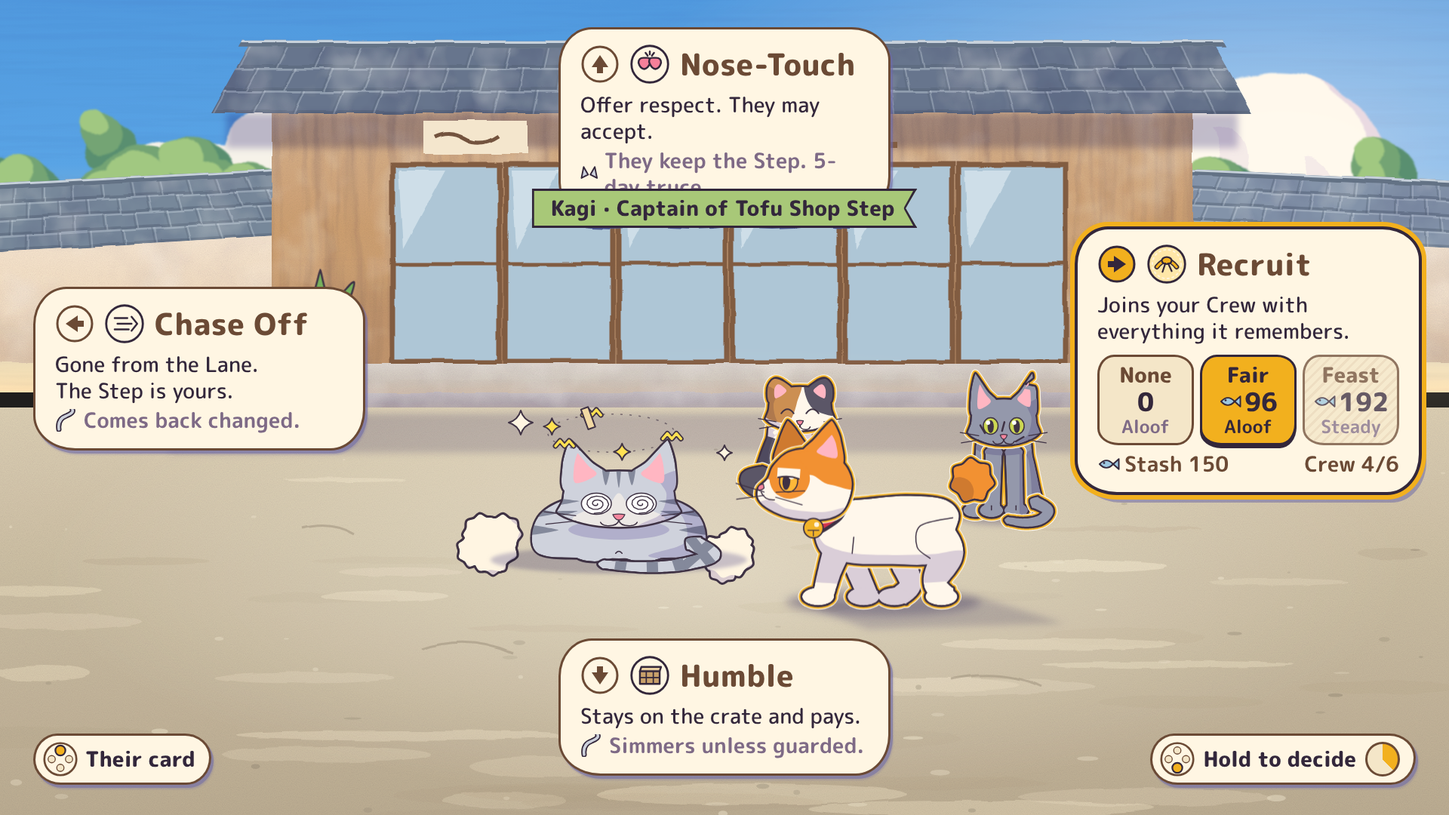
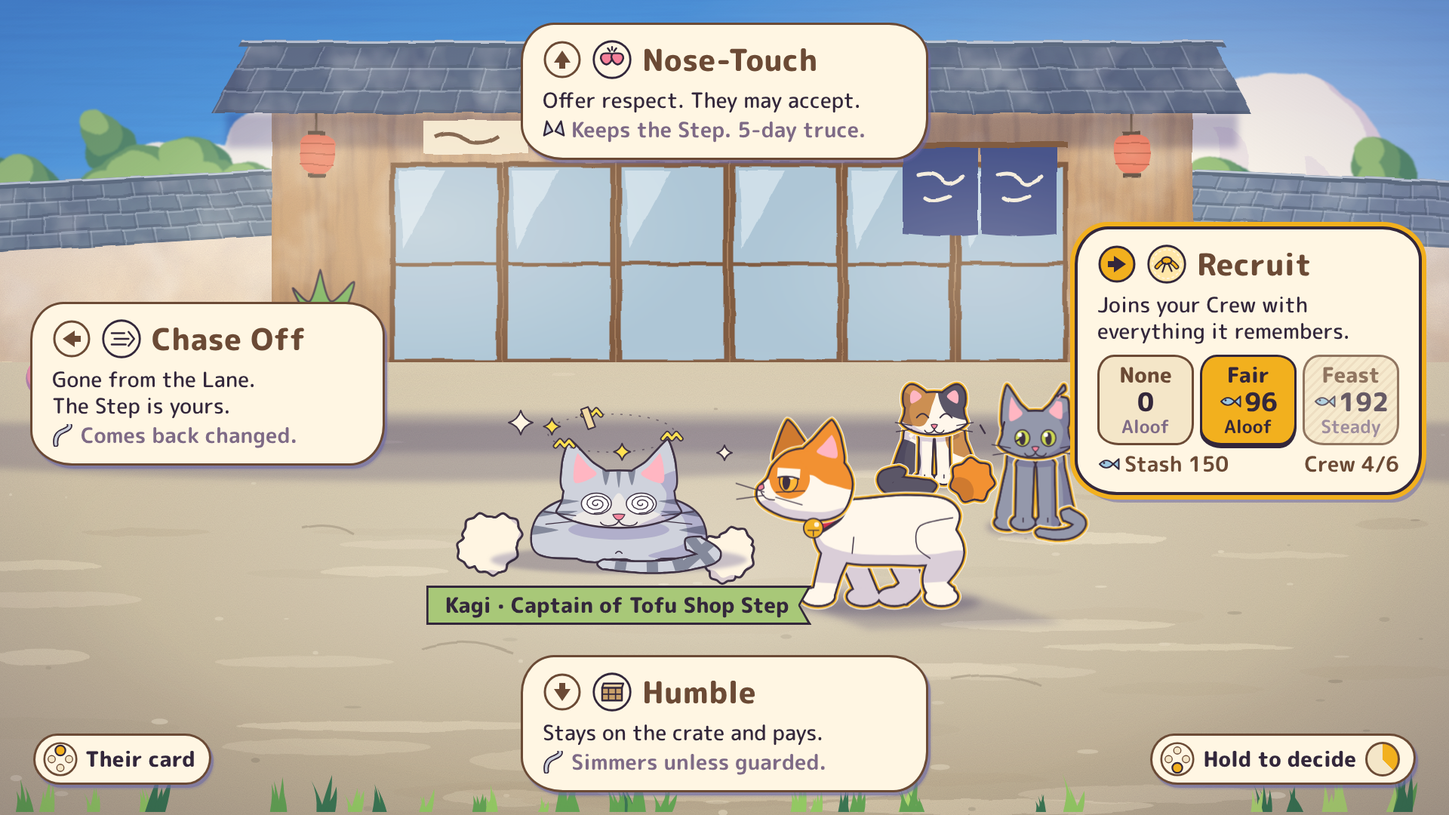
docs: nemesis preview mock frames
Claude-Session: https://claude.ai/code/session_01K9BzCtu5ca2nRxDXecreHZ

diff --git a/design/previews/10-home-evening.html b/design/previews/10-home-evening.html
@@ -1,0 +1,218 @@
+<!doctype html>
+<html lang="en">
+<head>
+<meta charset="utf-8">
+<title>Cat RPG — Frame 10: Home, Evening (mock screenshot)</title>
+<link rel="stylesheet" href="kit/kit.css">
+<style>
+  body { margin: 0; background: #111; }
+  .puff { position: absolute; }
+</style>
+</head>
+<body>
+<div class="k-stage" id="stage"></div>
+<script src="kit/kit.js"></script>
+<script>
+/* FRAME 10 — HOME, EVENING ("A Tuesday in Life 2", storyboard B shots 8–9, narrative §3.8).
+ * The Main Room at Dusk. Haru at the upright piano plays a slow bass under Mikan's footsteps while
+ * Mikan walks the treble keys. Her face stays out of frame (camera §3.9 face-out rule): she is
+ * shoulders-down, back three-quarters to us — hands, yellow socks on the pedal, the hem of her skirt.
+ * In the far doorway Gran's plum slippers have stopped under the noren, turned toward them, and stayed.
+ * Near-zero HUD: one bouncing tone puff over Mikan (hud.md §5.1). No text anywhere.
+ * Camera: piano verb follow, ~0.85 m up at the treble end, yawed toward the bass end.
+ * World: back wall is z=0, x runs along the keyboard (bass at small x), y up, metres. */
+const K = Kit, C = K.C, W = 1920, H = 1080;
+const CAM = { x: 2.3, y: 0.86, z: 2.05 }, TGT = { x: 0.15, z: 0.2 }, F = 1080, CX = 1010, HZ = 226;
+const fl = Math.hypot(TGT.x - CAM.x, TGT.z - CAM.z), fx = (TGT.x - CAM.x) / fl, fz = (TGT.z - CAM.z) / fl, rxv = -fz, rzv = fx;
+const P3 = (x, y, z) => { const dx = x - CAM.x, dz = z - CAM.z, sx = dx * rxv + dz * rzv, d = dx * fx + dz * fz; return [CX + sx * F / d, HZ - (y - CAM.y) * F / d, d]; };
+const pd = (pts) => 'M' + pts.map((p) => { const q = P3(...p); return q[0].toFixed(1) + ' ' + q[1].toFixed(1); }).join('L') + 'Z';
+const P2 = (x, y, z) => P3(x, y, z).slice(0, 2);
+const sc = (x, y, z) => F / P3(x, y, z)[2];        // px per metre at that point
+const ink = (d, fill, w) => K.inked(d, fill, w || 2.5);
+const s = [];
+
+/* =============================== the room =============================== */
+// back wall: warm plaster above a dark wood wainscot, lamplit
+s.push(`<rect width="${W}" height="${H}" fill="#3B2A2E"/>`);
+s.push(K.surface({ d: pd([[-4, 2.6, 0], [3, 2.6, 0], [3, 0.92, 0], [-4, 0.92, 0]]), box: { x: -200, y: -400, w: 2400, h: 1200 }, color: '#E9C99A', top: '#C8A27A', bottom: '#F2D3A0', grime: 0.1, tex: 'mottle', texOpacity: 0.2 }));
+s.push(K.surface({ d: pd([[-4, 0.92, 0], [3, 0.92, 0], [3, 0, 0], [-4, 0, 0]]), box: { x: -200, y: 200, w: 2400, h: 700 }, color: '#8A5A3A', top: '#9C6A44', bottom: '#6E4630', grime: 0.2, tex: 'brush-v', texOpacity: 0.35 }));
+s.push(`<path d="${pd([[-4, 0.95, 0], [3, 0.95, 0], [3, 0.9, 0], [-4, 0.9, 0]])}" fill="#5E3E2C"/>`);
+// right side wall (perpendicular, x = 2.0..) is behind the camera; left: the veranda glass doors at dusk on the back wall
+const vx0 = -3.4, vx1 = -1.55;
+s.push(`<linearGradient id="dusk" x1="0" y1="0" x2="0" y2="1"><stop offset="0" stop-color="#6E5FA0"/><stop offset="0.5" stop-color="#B07AA8"/><stop offset="0.85" stop-color="#F2A066"/><stop offset="1" stop-color="#F7B878"/></linearGradient>`);
+s.push(`<path d="${pd([[vx0, 2.2, 0], [vx1, 2.2, 0], [vx1, 0.05, 0], [vx0, 0.05, 0]])}" fill="url(#dusk)"/>`);
+// garden silhouettes and the wall, blue in the dusk; the Veranda Lamp's warm circle on the boards
+s.push(`<g>${K.foliage({ x: P2(-2.9, 0.9, 0)[0], y: P2(-2.9, 0.9, 0)[1], w: 260, h: 200, seed: 7, far: true, tones: { dark: '#3E3E6E', mid: '#55548A', light: '#7470A6' } })}</g>`);
+s.push(`<path d="${pd([[vx0, 0.55, 0], [vx1, 0.55, 0], [vx1, 0.05, 0], [vx0, 0.05, 0]])}" fill="#5E5A8E" opacity="0.85"/>`);
+s.push(K.glow(P2(-2.3, 0.2, 0)[0], P2(-2.3, 0.2, 0)[1], 120, 40, '#FFD98A', 0.9));
+s.push(`<circle cx="${P2(-2.0, 1.5, 0)[0]}" cy="${P2(-2.0, 1.5, 0)[1]}" r="9" fill="#FFE7A3"/>` + K.glow(P2(-2.0, 1.5, 0)[0], P2(-2.0, 1.5, 0)[1], 70, 70, '#FFD98A', 0.9));
+// glass door frames
+let vf = ''; for (let i = 0; i <= 3; i++) { const x = vx0 + (vx1 - vx0) * i / 3; vf += `<path d="${pd([[x - 0.03, 2.2, 0], [x + 0.03, 2.2, 0], [x + 0.03, 0.05, 0], [x - 0.03, 0.05, 0]])}" fill="#6B4430"/>`; }
+vf += `<path d="${pd([[vx0, 1.05, 0], [vx1, 1.05, 0], [vx1, 1.0, 0], [vx0, 1.0, 0]])}" fill="#6B4430"/>`;
+s.push(`<g filter="url(#k-rough)">${vf}</g>`);
+// cool dusk spill onto the floor from the glass
+s.push(`<path d="${pd([[vx0, 0, 0], [vx1, 0, 0], [vx1 + 0.4, 0, 1.6], [vx0 + 0.2, 0, 1.6]])}" fill="#8E7BC0" opacity="0.25" filter="url(#k-soft2)"/>`);
+
+// the inner doorway with its noren; Gran's plum slippers stopped beneath it, turned toward the piano
+const dx0 = -1.25, dx1 = -0.45;
+s.push(`<path d="${pd([[dx0, 1.85, 0], [dx1, 1.85, 0], [dx1, 0, 0], [dx0, 0, 0]])}" fill="#4A3434"/>`);
+s.push(K.glow(P2(-0.85, 0.5, -0.4)[0], P2(-0.85, 0.5, -0.4)[1], 90, 130, '#FFC98A', 0.45));      // the kitchen beyond, lit
+s.push(`<path d="${pd([[dx0 - 0.06, 1.9, 0], [dx1 + 0.06, 1.9, 0], [dx1 + 0.06, 1.82, 0], [dx0 - 0.06, 1.82, 0]])}" fill="#5E3E2C"/>`);
+// Gran: plum slippers, pale socks, the plum cross-hatched apron edge just below the noren
+const g = (x, y) => P2(x, y, -0.05);
+const gs = sc(-0.85, 0, -0.05);
+const granLegs = (x) => { const a = g(x - 0.045, 0.62), b = g(x + 0.045, 0.62), c = g(x + 0.04, 0.06), d = g(x - 0.04, 0.06); return `M${a[0]} ${a[1]}L${b[0]} ${b[1]}L${c[0]} ${c[1]}L${d[0]} ${d[1]}Z`; };
+s.push(ink(granLegs(-0.95), '#C9B8A6', 2) + ink(granLegs(-0.74), '#BFAE9C', 2));
+const slipper = (x, rot) => { const p = g(x, 0.03); return `<g transform="translate(${p[0]} ${p[1]}) rotate(${rot}) scale(${gs / 260})">${ink('M-30 0Q-34 -16 -14 -18H24Q44 -16 46 0Q8 6 -30 0Z', '#8E4A7B', 2.4)}${K.inkLine('M-12 -16Q8 -30 28 -16', 2)}</g>`; };
+s.push(slipper(-0.96, 8) + slipper(-0.72, 14));
+{ const a = g(-1.08, 0.98), b = g(-0.6, 0.98), c = g(-0.6, 0.6), d = g(-1.1, 0.6);
+  s.push(K.celGroup({ parts: [{ d: `M${a[0]} ${a[1]}L${b[0]} ${b[1]}L${c[0] + 6} ${c[1]}Q${(c[0] + d[0]) / 2} ${c[1] + 8} ${d[0] - 6} ${d[1]}Z`, fill: '#8E4A7B' }], overlays: [{ d: `M${d[0] - 10} ${d[1] - 14}L${c[0] + 10} ${c[1] - 14}L${c[0] + 10} ${c[1] + 10}L${d[0] - 10} ${d[1] + 10}Z`, fill: '#A65E92' }], shade: `M${(a[0] + b[0]) / 2 + 10} ${a[1]}H${b[0] + 20}V${c[1] + 20}H${(a[0] + b[0]) / 2 + 10}Z` }, { lw: 2.2, ol: K.OUTLINES.ink }));
+  let hatch = ''; for (let i = 0; i < 6; i++) { const t = i / 5, x = d[0] + (c[0] - d[0]) * t; hatch += `M${x} ${d[1] - 12}l6 10M${x + 6} ${d[1] - 12}l-6 10`; }
+  s.push(`<path d="${hatch}" stroke="#6E3560" stroke-width="1.4" opacity="0.6"/>`); }
+// the noren: two indigo panels hanging to just above the knee, a plain pale band (no writing)
+{ const n0 = g(dx0 - 0.02, 1.84), n1 = g(dx1 + 0.02, 1.84), n2 = g(dx1 + 0.02, 0.95), n3 = g(dx0 - 0.02, 0.98), m0 = g((dx0 + dx1) / 2, 1.84), m1 = g((dx0 + dx1) / 2, 0.96);
+  s.push(`<g filter="url(#k-rough)"><path d="M${n0[0]} ${n0[1]}L${m0[0] - 2} ${m0[1]}L${m1[0] - 4} ${m1[1]}Q${(m1[0] + n3[0]) / 2} ${m1[1] + 6} ${n3[0]} ${n3[1]}Z" fill="#3E5384"/><path d="M${m0[0] + 2} ${m0[1]}L${n1[0]} ${n1[1]}L${n2[0]} ${n2[1]}Q${(m1[0] + n2[0]) / 2} ${n2[1] + 8} ${m1[0] + 4} ${m1[1]}Z" fill="#364A78"/>`
+    + `<path d="M${n0[0]} ${n0[1] + 40}L${n1[0]} ${n1[1] + 40}L${n1[0]} ${n1[1] + 56}L${n0[0]} ${n0[1] + 56}Z" fill="#E9DFC8" opacity="0.85"/></g>`); }
+
+// a framed picture on the wall above (C13: pictures allowed, no captions): a kitten drawing, crayon
+{ const a = P2(-0.2, 1.95, 0), b = P2(0.0, 1.95, 0), c = P2(0.0, 1.62, 0);
+  s.push(`<g filter="url(#k-rough)"><rect x="${a[0] - 120}" y="${a[1]}" width="${(b[0] - a[0]) + 130}" height="${c[1] - a[1]}" fill="#6B4430"/><rect x="${a[0] - 110}" y="${a[1] + 9}" width="${(b[0] - a[0]) + 110}" height="${c[1] - a[1] - 18}" fill="#FFF8E8"/></g>`);
+  const ux = a[0] - 50, uy = (a[1] + c[1]) / 2 + 6;
+  s.push(`<g opacity="0.85"><ellipse cx="${ux}" cy="${uy}" rx="34" ry="24" fill="none" stroke="#F2A040" stroke-width="5"/><path d="M${ux - 28} ${uy - 14}l6 -22l14 14M${ux + 28} ${uy - 14}l-6 -22l-14 14" fill="none" stroke="#F2A040" stroke-width="5" stroke-linejoin="round"/><circle cx="${ux - 10}" cy="${uy - 2}" r="3" fill="#33273B"/><circle cx="${ux + 10}" cy="${uy - 2}" r="3" fill="#33273B"/><path d="M${ux + 34} ${uy + 6}q22 -2 24 -22" fill="none" stroke="#F2A040" stroke-width="5"/></g>`); }
+
+/* floor: warm boards running toward us, lamplit */
+s.push(`<path d="${pd([[-4, 0, 0], [3.2, 0, 0], [3.2, 0, 3], [-4, 0, 3]])}" fill="#A86E44"/>`);
+let boards = ''; for (let i = -26; i <= 22; i++) { const x = i * 0.16, a = P2(x, 0, 0), b = P2(x, 0, 2.4); boards += `<path d="M${a[0].toFixed(1)} ${a[1].toFixed(1)}L${b[0].toFixed(1)} ${b[1].toFixed(1)}" stroke="#6E4630" stroke-width="2.4" opacity="0.6"/><path d="M${(a[0] + 3).toFixed(1)} ${a[1].toFixed(1)}L${(b[0] + 3).toFixed(1)} ${b[1].toFixed(1)}" stroke="#E2A874" stroke-width="2" opacity="0.4"/>`; }
+for (let k = 0; k < 18; k++) { const R = K.rng(k + 3); const x = -3 + R() * 5.4, z = 0.2 + R() * 2; const a = P2(x, 0, z), b = P2(x + 0.16, 0, z); boards += `<path d="M${a[0].toFixed(1)} ${a[1].toFixed(1)}L${b[0].toFixed(1)} ${b[1].toFixed(1)}" stroke="#6E4630" stroke-width="2" opacity="0.5"/>`; }
+s.push(`<g filter="url(#k-rough)">${boards}</g>`);
+s.push(K.texture(0, 560, W, 520, 'brush', 0.25) + K.texture(0, 560, W, 520, 'grain', 0.2));
+// skirting where floor meets wall
+s.push(`<path d="${pd([[-4, 0.07, 0.005], [3.2, 0.07, 0.005], [3.2, 0, 0.005], [-4, 0, 0.005]])}" fill="#5E3E2C"/>`);
+
+/* =============================== the upright piano =============================== */
+const PX0 = 0, PX1 = 1.5;
+const BODY = '#6A3A2C', BODYD = '#4E2A22', BODYL = '#8A5040';
+// side panel (treble end faces the camera), upper body front, top
+s.push(`<path d="${pd([[PX0, 1.26, 0.32], [PX1, 1.26, 0.32], [PX1, 0.74, 0.32], [PX0, 0.74, 0.32]])}" fill="${BODY}"/>`);
+s.push(`<path d="${pd([[PX0, 1.28, 0.0], [PX1, 1.28, 0.0], [PX1, 1.28, 0.34], [PX0, 1.28, 0.34]])}" fill="${BODYL}"/>`);
+// lamp sheen on the polished front
+s.push(`<path d="${pd([[0.2, 1.22, 0.33], [0.62, 1.22, 0.33], [0.5, 0.8, 0.33], [0.1, 0.8, 0.33]])}" fill="#FFD9A0" opacity="0.18" filter="url(#k-soft)"/>`);
+// lower front panel and the pedals
+s.push(`<path d="${pd([[PX0 + 0.08, 0.62, 0.4], [PX1 - 0.08, 0.62, 0.4], [PX1 - 0.08, 0.05, 0.4], [PX0 + 0.08, 0.05, 0.4]])}" fill="${BODYD}"/>`);
+s.push(`<path d="${pd([[0.3, 0.5, 0.405], [1.2, 0.5, 0.405], [1.2, 0.16, 0.405], [0.3, 0.16, 0.405]])}" fill="none" stroke="#7A4A38" stroke-width="3"/>`);
+// music stand + sheet music (Scribble, a pencil circle on one bar)
+const ms = [[0.38, 1.12, 0.36], [1.02, 1.12, 0.36], [1.02, 0.84, 0.42], [0.38, 0.84, 0.42]];
+s.push(ink(pd(ms), '#FFF8EA', 2.2) + ink(pd([[0.52, 1.1, 0.365], [0.92, 1.1, 0.365], [0.92, 0.86, 0.415], [0.52, 0.86, 0.415]]).replace(/Z$/, 'Z'), '#F6EEDC', 1.6));
+{ let sm = ''; for (let r = 0; r < 4; r++) { const y = 1.07 - r * 0.06, zz = 0.365 + r * 0.014; for (let l = 0; l < 5; l++) { const a = P2(0.41, y - l * 0.008, zz), b = P2(0.99, y - l * 0.008, zz); sm += `<path d="M${a[0].toFixed(1)} ${a[1].toFixed(1)}L${b[0].toFixed(1)} ${b[1].toFixed(1)}" stroke="#8A7C8E" stroke-width="1" opacity="0.7"/>`; } for (let n = 0; n < 9; n++) { const p = P2(0.44 + n * 0.06 + (r % 2) * 0.02, y - 0.012 - ((n * 7 + r * 3) % 5) * 0.006, zz); sm += `<ellipse cx="${p[0].toFixed(1)}" cy="${p[1].toFixed(1)}" rx="3.2" ry="2.4" fill="#5E5468"/><path d="M${(p[0] + 3).toFixed(1)} ${p[1].toFixed(1)}v-11" stroke="#5E5468" stroke-width="1.2"/>`; } }
+  const pc = P2(0.8, 1.0, 0.38); sm += `<ellipse cx="${pc[0]}" cy="${pc[1]}" rx="26" ry="12" fill="none" stroke="#7A7090" stroke-width="2" transform="rotate(-6 ${pc[0]} ${pc[1]})"/>`;
+  s.push(sm); }
+// fallboard (open) — inked
+s.push(ink(pd([[0.1, 0.83, 0.43], [1.4, 0.83, 0.43], [1.4, 0.745, 0.45], [0.1, 0.745, 0.45]]), '#5A3026', 2.2));
+s.push(`<path d="${pd([[0.12, 0.82, 0.431], [1.38, 0.82, 0.431], [1.38, 0.81, 0.433], [0.12, 0.81, 0.433]])}" fill="#C27A5A" opacity="0.6"/>`);
+// key slip under the keys, cheek blocks, the side panel last (it is nearest)
+s.push(ink(pd([[0.06, 0.71, 0.64], [1.44, 0.71, 0.64], [1.44, 0.63, 0.64], [0.06, 0.63, 0.64]]), BODY, 2.2));
+// keys: white key tops + fronts, black keys — inked (Mikan can act on them)
+const KX0 = 0.12, KX1 = 1.38, NW = 36, kw = (KX1 - KX0) / NW, KY = 0.72;
+let keys = ink(pd([[KX0, KY, 0.47], [KX1, KY, 0.47], [KX1, KY, 0.635], [KX0, KY, 0.635]]), '#FFFCF4', 2.2);
+keys += ink(pd([[KX0, KY, 0.635], [KX1, KY, 0.635], [KX1, KY - 0.018, 0.635], [KX0, KY - 0.018, 0.635]]), '#E4DCEC', 2);
+for (let i = 1; i < NW; i++) { const x = KX0 + i * kw, a = P2(x, KY, 0.47), b = P2(x, KY, 0.635), c = P2(x, KY - 0.018, 0.635); keys += `<path d="M${a[0].toFixed(1)} ${a[1].toFixed(1)}L${b[0].toFixed(1)} ${b[1].toFixed(1)}L${c[0].toFixed(1)} ${c[1].toFixed(1)}" stroke="${C.ink}" stroke-width="1.25" fill="none"/>`; }
+const BK = [1, 1, 0, 1, 1, 1, 0];
+for (let i = 0; i < NW - 1; i++) { if (!BK[i % 7]) continue; const x = KX0 + (i + 1) * kw; keys += ink(pd([[x - kw * 0.3, KY + 0.012, 0.47], [x + kw * 0.3, KY + 0.012, 0.47], [x + kw * 0.3, KY + 0.012, 0.56], [x - kw * 0.3, KY + 0.012, 0.56]]), '#2E2430', 1.5) + `<path d="${pd([[x - kw * 0.3, KY + 0.012, 0.56], [x + kw * 0.3, KY + 0.012, 0.56], [x + kw * 0.3, KY, 0.565], [x - kw * 0.3, KY, 0.565]])}" fill="#1E1820"/>`; }
+s.push(keys);
+// cheek blocks
+s.push(ink(pd([[1.38, 0.79, 0.44], [1.5, 0.79, 0.44], [1.5, 0.79, 0.65], [1.38, 0.79, 0.65]]), BODYL, 2.2) + ink(pd([[1.38, 0.79, 0.65], [1.5, 0.79, 0.65], [1.5, 0.63, 0.65], [1.38, 0.63, 0.65]]), BODY, 2.2));
+s.push(ink(pd([[0.0, 0.79, 0.44], [0.12, 0.79, 0.44], [0.12, 0.79, 0.65], [0.0, 0.79, 0.65]]), BODYL, 2.2));
+// the nearest side panel of the piano (painted, polished, a warm lamp reflection running down it)
+s.push(K.surface({ d: pd([[PX1, 1.28, 0.0], [PX1, 1.28, 0.34], [PX1, 0.79, 0.34], [PX1, 0.79, 0.65], [PX1, 0.0, 0.65], [PX1, 0.0, 0.0]]), box: { x: 1100, y: -100, w: 600, h: 900 }, color: '#6E3C2E', top: '#7E4636', bottom: '#4E2A22', grime: 0, tex: 'brush-v', texOpacity: 0.3, wobble: true }));
+s.push(`<path d="${pd([[PX1 + 0.001, 1.2, 0.08], [PX1 + 0.001, 1.2, 0.14], [PX1 + 0.001, 0.1, 0.5], [PX1 + 0.001, 0.1, 0.42]])}" fill="#FFCFA0" opacity="0.22" filter="url(#k-soft)"/>`);
+// toe block + caster under the treble end
+s.push(`<path d="${pd([[PX1 - 0.12, 0.08, 0.64], [PX1, 0.08, 0.64], [PX1, 0, 0.64], [PX1 - 0.12, 0, 0.64]])}" fill="${BODYD}"/>`);
+s.push(K.castShadow(pd([[-0.1, 0, 0], [PX1 + 0.1, 0, 0], [PX1 + 0.25, 0, 0.75], [-0.1, 0, 0.75]]), 0.45, 'soft2'));
+// pedals (brass)
+[0.62, 0.75, 0.88].forEach((x) => { s.push(ink(pd([[x - 0.025, 0.07, 0.4], [x + 0.025, 0.07, 0.4], [x + 0.02, 0.06, 0.55], [x - 0.02, 0.06, 0.55]]), '#D9A84A', 1.8)); });
+
+/* =============================== Haru (shoulders down, back three-quarters) =============================== */
+const HP = { skin: '#F6D2B0', skinS: '#E2B092', card: C.haru, cardS: '#E9B428', skirt: '#8FA7C9', skirtS: '#7186AE', sock: C.haru, hair: '#3A2C34' };
+const tube3 = (pts, wm) => K.tube(pts.map((p) => P2(...p)), pts.map((p, i) => wm[i] * sc(...p)), { capRound: 0.4 });
+const G = { lw: 2.5, ol: K.OUTLINES.ink };
+// piano bench (painted wood, its top inked edge since a cat hops onto it)
+const BZ0 = 0.86, BZ1 = 1.22, BX0 = 0.18, BX1 = 1.0, BY = 0.48;
+s.push(K.castShadow(pd([[BX0 - 0.05, 0, BZ0 - 0.05], [BX1 + 0.1, 0, BZ0 - 0.05], [BX1 + 0.18, 0, BZ1 + 0.1], [BX0, 0, BZ1 + 0.1]]), 0.45, 'soft2'));
+[[BX0 + 0.04, BZ0 + 0.04], [BX1 - 0.04, BZ0 + 0.04], [BX1 - 0.04, BZ1 - 0.04], [BX0 + 0.04, BZ1 - 0.04]].forEach(([x, z]) => { s.push(ink(pd([[x - 0.02, BY - 0.04, z], [x + 0.02, BY - 0.04, z], [x + 0.02, 0, z], [x - 0.02, 0, z]]), '#5A3026', 2)); });
+// far (left) leg + arm first
+s.push(K.celGroup({ parts: [{ d: tube3([[0.48, 0.5, 0.96], [0.48, 0.47, 0.66], [0.5, 0.09, 0.6]], [0.11, 0.09, 0.07]), fill: HP.skin }], shadeAll: true }, G));
+s.push(K.celGroup({ parts: [{ d: tube3([[0.5, 0.15, 0.6], [0.5, 0.05, 0.6]], [0.075, 0.07]), fill: HP.sock }, { d: tube3([[0.5, 0.04, 0.62], [0.5, 0.03, 0.5]], [0.07, 0.06]), fill: HP.sock }], shadeAll: true }, G));
+// bench top
+s.push(ink(pd([[BX0, BY, BZ0], [BX1, BY, BZ0], [BX1, BY, BZ1], [BX0, BY, BZ1]]), '#7A4A34', 2.2) + ink(pd([[BX0, BY, BZ1], [BX1, BY, BZ1], [BX1, BY - 0.05, BZ1], [BX0, BY - 0.05, BZ1]]), '#5A3026', 2) + ink(pd([[BX1, BY, BZ0], [BX1, BY, BZ1], [BX1, BY - 0.05, BZ1], [BX1, BY - 0.05, BZ0]]), '#6A3A2C', 2));
+// near (right) leg: thigh under the skirt, shin, yellow sock, foot on the sustain pedal
+s.push(K.celGroup({ parts: [{ d: tube3([[0.76, 0.5, 0.98], [0.82, 0.48, 0.68], [0.86, 0.11, 0.6]], [0.115, 0.095, 0.072]), fill: HP.skin }], shade: tube3([[0.72, 0.5, 0.98], [0.78, 0.48, 0.68], [0.82, 0.11, 0.6]], [0.05, 0.04, 0.03]), lines: [] }, G));
+s.push(K.celGroup({ parts: [{ d: tube3([[0.86, 0.18, 0.6], [0.87, 0.07, 0.59]], [0.08, 0.074]), fill: HP.sock }, { d: tube3([[0.87, 0.06, 0.6], [0.88, 0.08, 0.47]], [0.074, 0.062]), fill: HP.sock }], shade: tube3([[0.84, 0.18, 0.62], [0.85, 0.06, 0.61]], [0.03, 0.03]) }, G));
+// skirt draped over the bench and the thighs
+{ const pts = [[0.36, 0.66, 1.06], [0.86, 0.66, 1.04], [0.94, 0.5, 0.96], [0.92, 0.44, 0.74], [0.84, 0.4, 0.66], [0.72, 0.42, 0.7], [0.56, 0.4, 0.66], [0.42, 0.42, 0.72], [0.34, 0.46, 0.98]].map((p) => P2(...p));
+  s.push(K.celGroup({ parts: [{ d: K.blob(pts, true, 0.4), fill: HP.skirt }], shade: K.blob([[0.34, 0.66, 1.06], [0.6, 0.66, 1.06], [0.6, 0.44, 0.9], [0.4, 0.42, 0.72], [0.32, 0.46, 0.98]].map((p) => P2(...p)), true, 0.4), lines: [K.blob([[0.7, 0.62, 1.04], [0.8, 0.5, 0.86], [0.78, 0.43, 0.7]].map((p) => P2(...p)), false), K.blob([[0.86, 0.6, 1.02], [0.92, 0.47, 0.82]].map((p) => P2(...p)), false)] }, G)); }
+// torso in the yellow cardigan, leaning in to the keys; shoulders crop out at the top of frame
+{ const pts = [[0.34, 0.6, 1.08], [0.9, 0.6, 1.06], [0.94, 0.86, 1.0], [0.92, 1.22, 0.94], [0.3, 1.24, 0.98], [0.3, 0.86, 1.04]].map((p) => P2(...p));
+  s.push(K.celGroup({ parts: [{ d: K.blob(pts, true, 0.35), fill: HP.card }], shade: K.blob([[0.3, 0.6, 1.08], [0.52, 0.6, 1.08], [0.5, 1.24, 0.98], [0.28, 1.24, 0.98]].map((p) => P2(...p)), true, 0.3),
+    lines: [K.blob([[0.62, 1.2, 0.98], [0.64, 0.9, 1.02], [0.62, 0.66, 1.06]].map((p) => P2(...p)), false)] }, G));
+  // ribbed hem band
+  const hb = [[0.34, 0.66, 1.08], [0.9, 0.66, 1.06], [0.9, 0.6, 1.06], [0.34, 0.6, 1.08]];
+  s.push(K.celGroup({ parts: [{ d: pd(hb), fill: HP.cardS }] }, G)); }
+// the dark ends of her bob, just in at the top edge (the face stays out of frame)
+s.push(K.celGroup({ parts: [{ d: K.blob([[0.44, 1.5, 0.98], [0.86, 1.5, 0.96], [0.86, 1.3, 0.95], [0.78, 1.24, 0.96], [0.6, 1.27, 0.97], [0.46, 1.25, 0.98]].map((p) => P2(...p)), true, 0.5), fill: HP.hair }], lines: [K.blob([[0.7, 1.4, 0.96], [0.72, 1.28, 0.96]].map((p) => P2(...p)), false)] }, { lw: 2.5, ol: K.OUTLINES.ink }));
+// near (right) arm: cardigan sleeve to a yellow cuff, forearm, the hand soft on the keys
+s.push(K.celGroup({ parts: [{ d: tube3([[0.9, 1.12, 0.96], [0.98, 0.9, 0.84], [0.94, 0.8, 0.7]], [0.12, 0.1, 0.09]), fill: HP.card }], shade: tube3([[0.88, 1.1, 0.98], [0.95, 0.88, 0.86]], [0.05, 0.04]) }, G));
+s.push(K.celGroup({ parts: [{ d: tube3([[0.95, 0.8, 0.72], [0.93, 0.77, 0.66]], [0.095, 0.09]), fill: HP.cardS }] }, G));
+{ // hand: fingers curved down onto the keys (around the D above middle C)
+  const hand = [[0.88, 0.79, 0.66], [0.99, 0.79, 0.665], [1.0, 0.765, 0.6], [0.99, 0.735, 0.55], [0.95, 0.73, 0.545], [0.9, 0.735, 0.55], [0.87, 0.76, 0.6]].map((p) => P2(...p));
+  s.push(K.celGroup({ parts: [{ d: K.blob(hand, true, 0.45), fill: HP.skin }], shade: K.blob([[0.86, 0.79, 0.66], [0.9, 0.79, 0.66], [0.9, 0.735, 0.55], [0.86, 0.75, 0.58]].map((p) => P2(...p)), true, 0.4),
+    lines: [0.905, 0.93, 0.955, 0.98].map((x) => K.blob([[x, 0.77, 0.6], [x + 0.002, 0.74, 0.555]].map((p) => P2(...p)), false)) }, G)); }
+
+/* =============================== Mikan on the treble keys =============================== */
+const mkp = P2(1.22, KY + 0.004, 0.56), mks = sc(1.22, KY, 0.56) / 520;
+s.push(K.cat({ ...K.CAST.mikan, pose: 'side-walk', x: mkp[0], y: mkp[1], scale: mks, flip: true, shadow: true }));
+// a key dips under the forepaw
+s.push(`<path d="${pd([[1.13, KY - 0.004, 0.5], [1.165, KY - 0.004, 0.5], [1.165, KY - 0.004, 0.635], [1.13, KY - 0.004, 0.635]])}" fill="${C.wisteria}" opacity="0.25"/>`);
+
+/* =============================== the music: soft coloured shapes =============================== */
+// Haru's bass: big, slow, round Haru-yellow shapes rising from her hand; Mikan's steps: small pale bell-cream drops.
+// They are painted light, not inked VFX (the house has no VFX: art bible §6.3); they braid together over the keys.
+const note = (x, y, r, col, op, stem) => `<g opacity="${op}"><ellipse cx="${x}" cy="${y}" rx="${r}" ry="${r * 0.82}" fill="${col}" transform="rotate(-18 ${x} ${y})"/>${stem ? `<path d="M${x + r * 0.8} ${y - 2}q${r * 0.3} ${-r * 1.6} ${r * 1.4} ${-r * 2.2}" stroke="${col}" stroke-width="${r * 0.32}" fill="none" stroke-linecap="round"/>` : ''}<ellipse cx="${x - r * 0.3}" cy="${y - r * 0.3}" rx="${r * 0.32}" ry="${r * 0.22}" fill="#FFFFFF" opacity="0.55" transform="rotate(-18 ${x} ${y})"/></g>`;
+let notes = '';
+const hh = P2(0.94, 0.86, 0.6);
+const haruPath = [[hh[0] - 10, hh[1] - 30], [hh[0] - 60, hh[1] - 120], [hh[0] + 10, hh[1] - 220], [hh[0] + 130, hh[1] - 280], [hh[0] + 260, hh[1] - 300]];
+[[0, 26, 0.95, true], [1, 34, 0.9, false], [2, 30, 0.8, true], [3, 38, 0.65, false], [4, 28, 0.45, true]].forEach(([i, r, op, st]) => { const [x, y] = haruPath[i]; notes += K.glow(x, y, r * 2.2, r * 2, '#FFE7A3', 0.35) + note(x, y, r, C.haru, op, st); });
+const mikPath = [[mkp[0] - 70, mkp[1] - 70], [mkp[0] - 20, mkp[1] - 160], [mkp[0] - 110, mkp[1] - 230], [mkp[0] - 60, mkp[1] - 320], [mkp[0] - 190, mkp[1] - 360]];
+[[0, 14, 0.95], [1, 12, 0.85], [2, 16, 0.8], [3, 11, 0.65], [4, 13, 0.5]].forEach(([i, r, op]) => { const [x, y] = mikPath[i]; notes += K.glow(x, y, r * 2.4, r * 2.2, '#FFF1D6', 0.4) + note(x, y, r, '#FFE2BC', op, i % 2 === 0); });
+// where the two lines meet, a soft warm bloom (the duet)
+notes += K.glow((haruPath[4][0] + mikPath[4][0]) / 2, (haruPath[4][1] + mikPath[4][1]) / 2 - 10, 220, 140, '#FFE7B8', 0.45);
+notes += note((haruPath[4][0] + mikPath[4][0]) / 2 - 20, (haruPath[4][1] + mikPath[4][1]) / 2 - 10, 18, C.haru, 0.6, true) + note((haruPath[4][0] + mikPath[4][0]) / 2 + 26, (haruPath[4][1] + mikPath[4][1]) / 2 - 30, 11, '#FFE2BC', 0.6, true);
+s.push(`<g filter="url(#k-soft)" opacity="0.6">${notes}</g><g>${notes}</g>`);
+
+/* =============================== foreground witnesses =============================== */
+// Haru's school bag slumped against the bench leg, the ginger-cat charm on its zip (today's find)
+{ const b0 = P2(1.12, 0, 1.32), bs = sc(1.12, 0, 1.32) / 300;
+  s.push(K.shadow({ x: b0[0] + 10, y: b0[1], rx: 90 * bs * 1.6, ry: 14 }));
+  s.push(`<g transform="translate(${b0[0]} ${b0[1]}) scale(${bs})">${K.celGroup({ parts: [{ d: K.blob([[-62, 0], [-70, -60], [-60, -110], [56, -118], [66, -64], [60, 0]], true, 0.4), fill: '#3A486E' }, { d: K.blob([[-52, -74], [52, -80], [56, -40], [-56, -36]], true, 0.3), fill: '#46567E' }], shade: 'M20 -140H90V10H20Z', lines: ['M-60 -96Q0 -104 58 -102'] }, G)}${K.inkLine('M-34 -112Q-20 -170 20 -170Q48 -166 40 -116', 6)}${K.inkLine('M-34 -112Q-20 -170 20 -170Q48 -166 40 -116', 3, '#2A3658')}`
+    + `<g transform="translate(40 -96)">${K.inkLine('M0 0V22', 1.6)}${K.celGroup({ parts: [{ d: K.blob([[-12, 32], [-13, 22], [-10, 16], [-12, 6, 1], [-4, 13], [4, 13], [12, 6, 1], [10, 16], [13, 22], [12, 32], [0, 36]], true, 0.5), fill: C.ginger }], overlays: [{ d: 'M-14 26Q0 30 14 26V40H-14Z', fill: '#FFF8EC' }] }, { lw: 1.8, ol: K.OUTLINES.ink })}<circle cx="-4" cy="24" r="1.4" fill="${C.ink}"/><circle cx="4" cy="24" r="1.4" fill="${C.ink}"/></g></g>`); }
+// the chipped blue-and-white Bowl on its mat, near the camera, softly out of focus
+{ const bw = P2(1.85, 0, 1.15), bsc = sc(1.85, 0, 1.15) / 260;
+  s.push(`<g transform="translate(${bw[0]} ${bw[1]}) scale(${bsc})">${`<ellipse cx="0" cy="2" rx="110" ry="26" fill="#C9A06A"/><ellipse cx="0" cy="0" rx="104" ry="23" fill="#E2BC84"/>`}${K.celGroup({ parts: [{ d: 'M-70 -44Q-66 -4 -40 4H40Q66 -4 70 -44Z', fill: '#F7F4FA' }, { d: K.ell ? K.ell(0, -44, 70, 16) : 'M-70 -44A70 16 0 1 0 70 -44A70 16 0 1 0 -70 -44Z', fill: '#3E62A8' }], overlays: [{ d: 'M-70 -30H70V-22H-70Z', fill: '#3E62A8' }], shade: 'M30 -70H90V10H30Z', lines: ['M-58 -10Q0 -2 58 -10'] }, G)}<path d="M-46 -54l8 -4l4 7l-8 3z" fill="#F7F4FA" stroke="${C.ink}" stroke-width="2"/></g>`); }
+
+/* =============================== light =============================== */
+// the pendant lamp above (out of frame): a warm pool around the bench and the keys
+s.push(K.glow(P2(0.9, 0, 0.9)[0], P2(0.9, 0, 0.9)[1], 640, 220, '#FFC98A', 0.5));
+s.push(K.glow(P2(0.9, 0.9, 0.6)[0], P2(0.9, 0.9, 0.6)[1] - 120, 760, 480, '#FFD9A0', 0.32));
+// dusk-violet in the corners, never black (warm memory, soft contrast)
+s.push(`<radialGradient id="vig" cx="0.55" cy="0.45" r="0.75"><stop offset="0.55" stop-color="#7A4E8C" stop-opacity="0"/><stop offset="1" stop-color="#7A4E8C" stop-opacity="0.5"/></radialGradient><rect width="${W}" height="${H}" fill="url(#vig)" style="mix-blend-mode:multiply"/>`);
+s.push(K.texture(0, 0, W, H, 'grain', 0.1));
+
+/* =============================== HUD: one tone puff over Mikan, nothing else =============================== */
+// Bouncing tone puff (= a bright, excited voice, felt by the cat; never a word)
+const puff = `<svg width="110" height="96" viewBox="-55 -52 110 96" overflow="visible"><path d="${K.blob(K.pomPts(0, -4, 36, 9, 0.12))}" fill="${C.wisteria}" opacity="0.5" transform="translate(3 4)"/><path d="${K.blob(K.pomPts(0, -4, 36, 9, 0.12))}" fill="${C.cream}" stroke="${C.cocoa}" stroke-width="3.5"/>`
+  + `<g fill="none" stroke="${C.ink}" stroke-width="3.4" stroke-linecap="round"><path d="M-22 6q6 -16 12 0q6 -22 12 0q6 -28 12 0"/></g><circle cx="-24" cy="-22" r="4" fill="${C.gold}" stroke="${C.ink}" stroke-width="2"/><circle cx="22" cy="-26" r="3" fill="${C.gold}" stroke="${C.ink}" stroke-width="2"/></svg>`;
+
+document.getElementById('stage').innerHTML = K.svg(W, H, s.join(''), 'class="k-world"')
+  + `<div class="puff" style="left:${mkp[0] - 40}px;top:${mkp[1] - mks * 140 - 110}px">${puff}</div>`;
+</script>
+</body>
+</html>

diff --git a/design/previews/07-verdict.html b/design/previews/07-verdict.html
@@ -6,7 +6,7 @@
 <link rel="stylesheet" href="kit/kit.css">
 <style>
   body { margin: 0; background: #111; }
-  .vc { position: absolute; width: 440px; box-sizing: border-box; padding: 18px 26px 20px; }
+  .vc { position: absolute; width: 470px; box-sizing: border-box; padding: 18px 26px 20px; }
   .vc .hd { display: flex; align-items: center; gap: 12px; margin-bottom: 8px; }
   .vc .hd .t { font: 800 40px/1 var(--font); color: var(--cocoa); letter-spacing: .01em; }
   .vc .hd svg { display: block; flex: none; }
@@ -14,9 +14,9 @@
   .vc .ln b { font-weight: 800; }
   .vc .risk { font: 700 28px/1.25 var(--font); color: #7E6A86; margin-top: 4px; display: flex; align-items: center; gap: 8px; }
   .vc--raised { border-color: var(--ink); border-width: 4px; box-shadow: 0 0 0 6px var(--gold), 6px 10px 0 rgba(110,106,168,.55); }
-  #v-up { left: 740px; top: 36px; }
-  #v-down { left: 740px; top: 846px; }
-  #v-left { left: 44px; top: 380px; }
+  #v-up { left: 690px; top: 30px; width: 540px; }
+  #v-down { left: 690px; top: 868px; width: 540px; }
+  #v-left { left: 40px; top: 400px; }
   #v-right { left: 1424px; top: 300px; width: 460px; padding-bottom: 22px; }
   .bribe { display: grid; grid-template-columns: repeat(3, 1fr); gap: 8px; margin-top: 14px; }
   .bribe .opt { display: flex; flex-direction: column; align-items: center; gap: 4px; padding: 10px 4px 10px; border: 3px solid var(--cocoa); border-radius: 22px 26px 22px 28px / 26px 22px 28px 22px; background: var(--recessed); }
@@ -31,7 +31,7 @@
   #foot-l { left: 44px; bottom: 40px; }
   #foot-r { right: 44px; bottom: 40px; display: flex; align-items: center; gap: 12px; }
   #foot-r .ring { width: 46px; height: 46px; border-radius: 50%; background: conic-gradient(var(--gold) 0 38%, var(--recessed) 38% 100%); border: 3px solid var(--cocoa); box-sizing: border-box; }
-  #title { left: 50%; top: 250px; transform: translateX(-50%); display: flex; align-items: center; gap: 14px; }
+  #title { left: 820px; top: 776px; transform: translateX(-50%); display: flex; align-items: center; gap: 14px; }
 </style>
 </head>
 <body>
@@ -68,8 +68,11 @@ s.push(K.castShadow('M300 150H1640V196H300Z', 0.45));
 let doors = ''; for (let i = 0; i < 6; i++) { const x = 520 + i * 150; doors += `<rect x="${x}" y="218" width="142" height="262" fill="#A9C4D6"/><rect x="${x}" y="218" width="142" height="262" fill="none" stroke="#7A5338" stroke-width="7"/><path d="M${x + 8} 226L${x + 70} 226L${x + 14} 330Z" fill="#E8F4FA" opacity="0.55"/><path d="M${x} 350H${x + 142}" stroke="#7A5338" stroke-width="5"/>`; }
 s.push(`<g filter="url(#k-rough)">${doors}</g>`);
 // noren curtain: three indigo panels with Scribble (human writing stays illegible)
-let noren = ''; for (let i = 0; i < 4; i++) { const x = 760 + i * 106; noren += `<path d="M${x} 196H${x + 100}V300Q${x + 50} 306 ${x} 300Z" fill="#3E4C86"/><path d="M${x + 22} 228q20 -6 30 6t28 -4M${x + 30} 256q12 8 34 -2" stroke="#F4ECDC" stroke-width="5" fill="none" stroke-linecap="round"/>`; }
-s.push(`<g filter="url(#k-rough)"><path d="M748 192H1188" stroke="#7A5338" stroke-width="8"/>${noren}</g>`);
+let noren = ''; for (let i = 0; i < 2; i++) { const x = 1196 + i * 104; noren += `<path d="M${x} 196H${x + 100}V310Q${x + 50} 316 ${x} 310Z" fill="#3E4C86"/><path d="M${x + 22} 232q20 -6 30 6t28 -4M${x + 30} 262q12 8 34 -2" stroke="#F4ECDC" stroke-width="5" fill="none" stroke-linecap="round"/>`; }
+s.push(`<g filter="url(#k-rough)"><path d="M1186 192H1414" stroke="#7A5338" stroke-width="8"/>${noren}</g>`);
+// paper lanterns under the eave (left)
+s.push(`<g filter="url(#k-rough)">${[420, 1500].map((x) => `<path d="M${x} 150V176" stroke="#5E4A3E" stroke-width="3"/><path d="M${x - 24} 196Q${x - 26} 178 ${x} 176Q${x + 26} 178 ${x + 24} 196Q${x + 26} 228 ${x} 232Q${x - 26} 228 ${x - 24} 196Z" fill="#E8604A"/><path d="M${x - 22} 190H${x + 22}M${x - 24} 204H${x + 24}M${x - 22} 218H${x + 22}" stroke="#B8402E" stroke-width="2"/><path d="M${x - 12} 176H${x + 12}M${x - 12} 232H${x + 12}" stroke="#3E2E28" stroke-width="5"/>`).join('')}</g>`);
+s.push(K.glow(420, 205, 90, 60, '#FFD9A0', 0.35) + K.glow(1500, 205, 90, 60, '#FFD9A0', 0.35));
 // signboard with Scribble
 s.push(`<g filter="url(#k-rough)"><rect x="560" y="160" width="140" height="44" fill="#F4E6CC"/><path d="M576 182q20 -10 40 2t44 -4" stroke="#6B4A35" stroke-width="5" fill="none"/></g>`);
 // potted plants, crates of soy bottles, a bench
@@ -80,9 +83,17 @@ s.push(K.surface({ pts: [[300, 482], [1640, 482], [1680, 520], [260, 520]], colo
 s.push(K.surface({ pts: [[260, 520], [1680, 520], [1680, 548], [260, 548]], color: '#A79DA6', grime: 0.1 }));
 
 /* ---------- the lane (the fight ring) ---------- */
-s.push(K.ground({ pts: [[-10, 540], [W + 10, 540], [W + 10, H + 10], [-10, H + 10]], seed: 6 }));
+s.push(K.ground({ pts: [[-10, 480], [W + 10, 480], [W + 10, H + 10], [-10, H + 10]], seed: 6 }));
 s.push(K.castShadow('M260 548H1680L1720 600H220Z', 0.35));
 s.push(K.glow(960, 760, 900, 300, '#FFF0C8', 0.45));
+// cast shadows across the lane: the shop eave (top), a pole and the garden wall (left), leaf dapple (right)
+s.push(K.castShadow('M-20 560L1940 560L1940 640Q1400 610 960 630Q500 650 -20 620Z', 0.32));
+s.push(K.glow(560, 300, 380, 200, '#FFE9C0', 0.35) + K.glow(1300, 360, 300, 160, '#FFE9C0', 0.25));
+s.push(K.flowers({ x: 160, y: 520, w: 260, h: 90, seed: 8, color: '#E58AA6' }));
+let dap = ''; const R = K.rng(12); for (let i = 0; i < 40; i++) { const x = 1300 + R() * 640, y = 820 + R() * 260, r = 10 + R() * 30; dap += `<ellipse cx="${x.toFixed(0)}" cy="${y.toFixed(0)}" rx="${r.toFixed(0)}" ry="${(r * 0.4).toFixed(0)}"/>`; }
+
+s.push(K.grass({ x1: -20, y1: 1076, x2: 1940, y2: 1076, n: 40, h: 40, seed: 4 }));
+s.push(K.prop({ kind: 'bucket', x: 1640, y: 640, scale: 1.2 }));
 // the ring edge: scuffs and dust from the fight
 s.push(`<g filter="url(#k-rough)" fill="none" stroke="#9A8C78" stroke-width="3" opacity="0.55"><path d="M560 860q60 -20 120 6M1260 900q70 -14 120 10M400 700q40 -10 70 8"/></g>`);
 
@@ -97,14 +108,14 @@ s.push(`<g transform="translate(${kg.x - 40} ${kg.y - 186}) rotate(-20)">${K.ink
 /* ---------- Mikan and the Posse ---------- */
 const mk = { x: 1170, y: 800 };
 s.push(K.castShadow(`M${mk.x - 120} ${mk.y - 4}L${mk.x + 130} ${mk.y - 8}L${mk.x + 240} ${mk.y + 26}L${mk.x - 20} ${mk.y + 34}Z`, 0.3));
-s.push(K.cat({ ...K.CAST.oldWallCat, pose: 'front-sit', expr: 'neutral', collar: 'cord', outline: 'gold', x: 1330, y: 684, scale: 1.55 }));
-s.push(K.cat({ ...K.CAST.goofball, pose: 'front-sit', expr: 'happy', collar: 'cord', outline: 'gold', x: 1060, y: 640, scale: 1.3, flip: true }));
+s.push(K.cat({ ...K.CAST.oldWallCat, pose: 'front-sit', expr: 'neutral', collar: 'cord', outline: 'gold', x: 1372, y: 700, scale: 1.55 }));
+s.push(K.cat({ ...K.CAST.goofball, pose: 'front-sit', expr: 'happy', collar: 'cord', outline: 'gold', x: 1238, y: 640, scale: 1.22, flip: true }));
 s.push(K.cat({ ...K.CAST.mikan, pose: 'side-walk', carry: 'spring', outline: 'gold', expr: 'smug', x: mk.x, y: mk.y, scale: 2.15, flip: true }));
 s.push(K.ticks({ x: mk.x + 150, y: mk.y - 200, r: 30, n: 3, a0: -120, a1: -30, len: 12 })); // tail-beckon (Recruit preview)
 s.push(K.sparkle({ x: 690, y: 560, r: 16 }) + K.sparkle({ x: 960, y: 600, r: 10 }));
 
 /* ---------- light ---------- */
-s.push(`<rect width="${W}" height="${H}" fill="#FFF2D6" opacity="0.06"/>`);
+s.push(`<rect width="${W}" height="${H}" fill="#FFF2D6" opacity="0.06"/><radialGradient id="vg" cx="0.5" cy="0.55" r="0.72"><stop offset="0.62" stop-color="#6E6AA8" stop-opacity="0"/><stop offset="1" stop-color="#6E6AA8" stop-opacity="0.32"/></radialGradient><rect width="${W}" height="${H}" fill="url(#vg)" style="mix-blend-mode:multiply"/>`);
 
 /* ---------- UI: the four Verdicts ---------- */
 const arrow = (dir, lit) => { const r = { up: 0, right: 90, down: 180, left: 270 }[dir]; return `<svg width="52" height="52" viewBox="-26 -26 52 52"><circle r="23" fill="${lit ? C.gold : C.cream}" stroke="${lit ? C.ink : C.cocoa}" stroke-width="3"/><path d="M0 -12L11 4H4V12H-4V4H-11Z" transform="rotate(${r})" fill="${lit ? C.ink : C.cocoa}"/></svg>`; };
@@ -119,7 +130,7 @@ const ears = `<svg width="30" height="30" viewBox="-16 -16 32 32"><path d="M-14 
 
 document.getElementById('stage').innerHTML = K.svg(W, H, s.join(''), 'class="k-world"') + `
   <div class="k-panel vc" id="v-up"><div class="hd">${arrow('up')}${ic(noses)}<span class="t">Nose-Touch</span></div>
-    <div class="ln">Offer respect. They may accept.</div><div class="risk">${ears}They keep the Step. 5-day truce.</div></div>
+    <div class="ln">Offer respect. They may accept.</div><div class="risk">${ears}Keeps the Step. 5-day truce.</div></div>
   <div class="k-panel vc" id="v-left"><div class="hd">${arrow('left')}${ic(G.run)}<span class="t">Chase Off</span></div>
     <div class="ln">Gone from the Lane.<br>The Step is yours.</div><div class="risk">${tail}Comes back changed.</div></div>
   <div class="k-panel vc" id="v-down"><div class="hd">${arrow('down')}${ic(crateG)}<span class="t">Humble</span></div>
